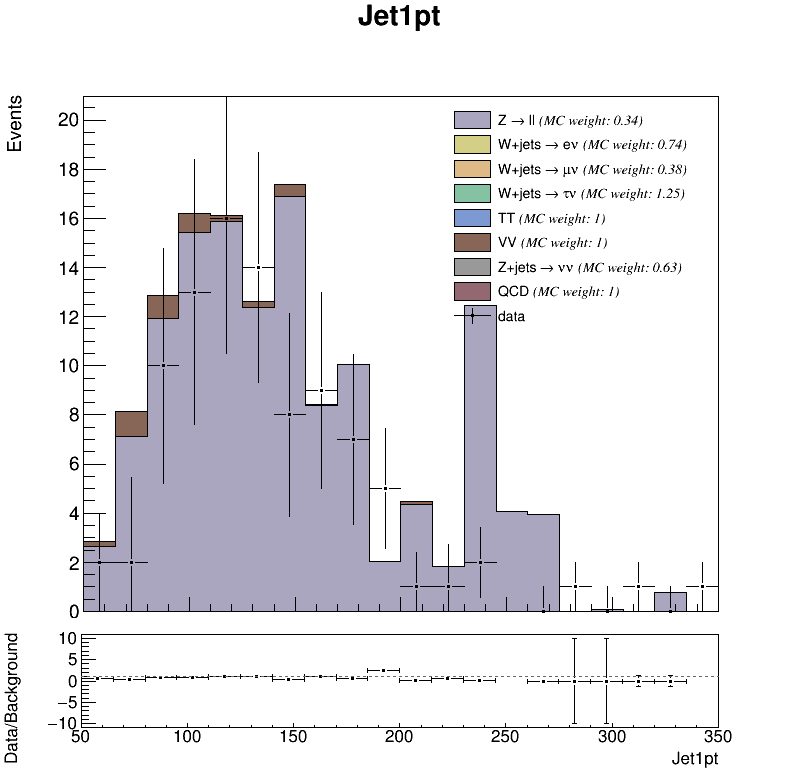
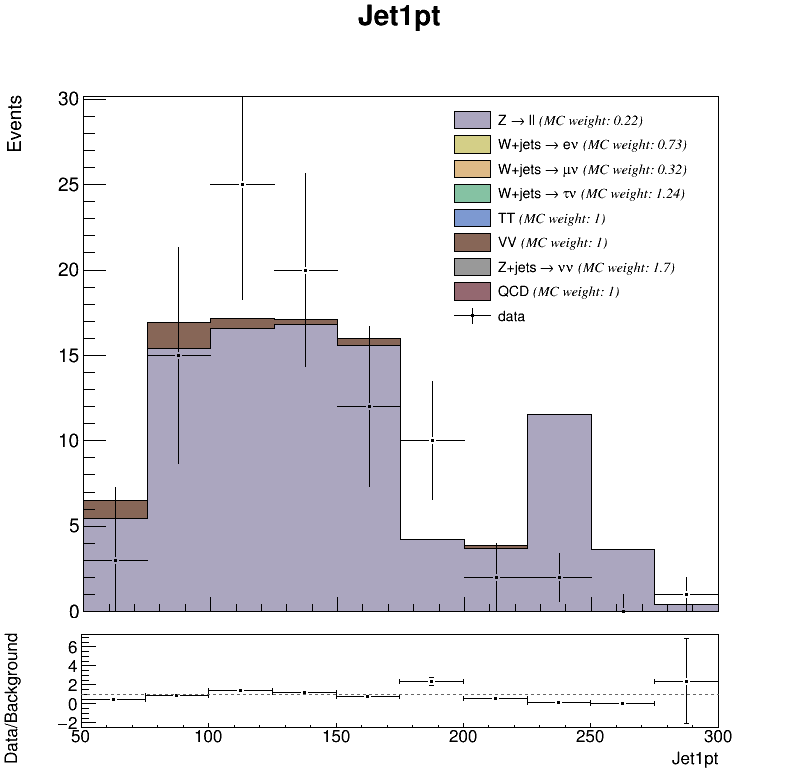
control plots

diff --git a/src/histo_plot.cpp b/src/histo_plot.cpp
@@ -712,7 +712,7 @@ void HistoPlot::style_stacked_histo(THStack* hs, const char* x_label)
 
 void HistoPlot::style_ratio_histo(TH1F* single_histo, const char* x_label)
 {
-  single_histo->GetYaxis()->SetTitle("Signal/Background"); //when not tmva was data/MC
+  single_histo->GetYaxis()->SetTitle("Data/Background"); //when not tmva was data/MC
   single_histo->GetYaxis()->SetLabelSize(0.12);
   single_histo->GetYaxis()->SetTitleOffset(0.45);
   single_histo->GetYaxis()->SetTitleSize(0.12);
@@ -930,7 +930,7 @@ std::string HistoPlot::build_signal_leg_entry(Variable* var, DataChain* signal_c
   return signal_leg_str;
 }
 //_______________________________________________________________________________________________________________________
-void HistoPlot::plot_control(Variable* mva_output, DataChain* data, std::vector<DataChain*> bg_chains,
+void HistoPlot::plot_control(bool not_tau, Variable* mva_output, DataChain* data, std::vector<DataChain*> bg_chains,
                                       std::vector<Variable*>* variables, std::string file_name, 
                                       std::string control, std::string mva_cut)
 {
@@ -957,7 +957,7 @@ void HistoPlot::plot_control(Variable* mva_output, DataChain* data, std::vector<
    //step 1.2 clone data chain
 
   string selection;
-  if(strcmp(control.c_str(), "(nselelectrons == 1)&&(nselmuons == 0)&&(nvetomuons==0)&&(ntaus == 0)"))
+  if(not_tau)
   { 
   	selection = "((jet1_pt>50.0)&&(jet2_pt>45.0)&&(metnomu_significance>3.5)&&(dijet_deta>4.2)&&(alljetsmetnomu_mindphi>2.0)&&" + control + ")*total_weight_lepveto";
   }
@@ -969,7 +969,7 @@ void HistoPlot::plot_control(Variable* mva_output, DataChain* data, std::vector<
   ////////////////////////////////////////////////////////////////////////////////////////////////////////////////////////////////////
   //step 2: create background histo
   //step 2.1: get zjets mc weight
-  double mc_weights_arr[] = { 0.34, 0.74, 0.38, 1.25, 1, 1,0.63, 1};
+  double mc_weights_arr[] = { 0.22, 0.73, 0.32, 1.24, 1, 1,1.70, 1};
   std::vector<double> mc_weights_vector (mc_weights_arr, mc_weights_arr + sizeof(mc_weights_arr) / sizeof(mc_weights_arr[0]));  
 
 
@@ -1009,7 +1009,7 @@ void HistoPlot::plot_control(Variable* mva_output, DataChain* data, std::vector<
   build_legend(legend, data_histo, mva_output, true);
 
   //step 5.2 draw subtitles
-  draw_subtitle(mva_output, variables, true, data, "", mva_cut);
+  //draw_subtitle(mva_output, variables, true, data, "", mva_cut);
   std::cout << "step 5 done" << std::endl;
 
 
@@ -1056,7 +1056,7 @@ THStack HistoPlot::draw_stacked_control(TLegend* legend, Variable* var, std::vec
   THStack stack(var->name_styled, "");
   
   //std::cout << "selection in draw stacked control histo " << selection << std::endl;
-  for(int i = 0; i < bg_chains.size(); i++) {
+  for(int i = 0; i < 8; i++) {
       //cout<<bg_chains[i]->label<<" === background, mc weight: "<<mc_weights_vector[i]<<endl;
       TH1F* single_bg_histo = draw_background_from_trees(bg_chains[i], var, colours()[i], selection, mc_weights_vector[i], mva_cut);
       stack.Add(single_bg_histo);

diff --git a/src/super_vars.cpp b/src/super_vars.cpp
@@ -4,17 +4,17 @@ SuperVars::SuperVars()
 {
   forward_tag_eta        = new Variable("forward_tag_eta","Forward Tag #eta","1.8","4.5","1.8",
                                         "","20","1", "", true);//why is there upper limit
-  dijet_deta             = new Variable("dijet_deta","Dijet #Delta#eta","4.2","","4.2","","20","1", "");//why is there upper limit
+  dijet_deta             = new Variable("dijet_deta","Dijet #Delta#eta","4.2","5.1","4.2","","10","1", "");//why is there upper limit
   metnomu_significance   = new Variable("metnomu_significance","MET Significance (No Muons)",
-                                        "3.0","","3.5","","20","1", "");
+                                        "3.5","6.5","3.5","","10","1", "");
   sqrt_ht                = new Variable("sqrt_ht","Square Root HCAL Scalar Sum of Energy","0.0","35.0","9.0",
                                         "18.0","20","1", "GeV^{0.5}");
-  alljetsmetnomu_mindphi = new Variable("alljetsmetnomu_mindphi","All Jets - MET Min. #Delta#phi (No Muons)","2.0","","2.0","","20","1", "");
+  alljetsmetnomu_mindphi = new Variable("alljetsmetnomu_mindphi","All Jets - MET Min. #Delta#phi (No Muons)","2.0","3.15","2.0","","5","1", "");
   dijet_M                = new Variable("dijet_M","Dijet Mass","0.0","2000","","","10","1", "GeV");// whyis there upper limit
   metnomuons             = new Variable("metnomuons","MET (No Muons)","0.0","2000","120.0","",//why the upper limit?
                                         "50","50", "GeV");
-  jet1_pt                 = new Variable("jet1_pt","Jet1pt","50.0","","50.0","","20","", "GeV");
-  jet2_pt                 = new Variable("jet2_pt","Jet2pt","45.0","","45.0","","20","", "GeV");
+  jet1_pt                 = new Variable("jet1_pt","Jet1pt","50.0","300","50.0","","10","", "GeV");
+  jet2_pt                 = new Variable("jet2_pt","Jet2pt","45.0","150","45.0","","10","", "GeV");
   jet1_eta = new Variable("jet1_eta","jet1_eta", "-5.0", "5.0", "-5.0", "5.0","50","1","");
   jet2_eta = new Variable("jet2_eta","jet2_eta", "-5.0", "5.0", "-5.0", "5.0","50","1","");
   jet1_phi = new Variable("jet1_phi","jet1_phi", "-4.0", "4.0", "-4.0", "4.0","50","1","");

diff --git a/src/main.cpp b/src/main.cpp
@@ -38,7 +38,7 @@ void produce_graphs(bool with_cut, const char* job_ptr) {
   int min = -80;//1769; // the minimum value you want cuts to be from
   int max =25;//1770; // max value you want cuts to be to
   double digits = 100; // number of digits + 1 of your cuts, e.g. if you put ur min as 40 then put 100 as digits to make it 0.4
-
+/*
 for(int i=0; i<vars.size();i++)
 {
 	string file_name;
@@ -47,7 +47,7 @@ for(int i=0; i<vars.size();i++)
 	file_name.append(vars[i]->name);
 	file_name.append(".png");
 	HistoPlot::draw_plot(vars[i], bg_chains,signal_chain, data_chain, with_cut,&cut_vars,  true, file_name,mva_cut);
-}
+}*/
 
 
 //double e_f = HistoPlot::get_efficiency_factor(ewk_chain,qcd_chain,cut_vars[0], &cut_vars, mva_cut);
@@ -79,11 +79,12 @@ for(int i=0; i<8;i++){
     cout<<bg_chains[i]->label<<": "<<integral<<endl;
 }*/
 
-/*
 
+bool not_tau=true;
 int var_index[] ={7,11,12,5,6,8};// forward_tag_eta, jet1_pt, jet2_pt,alljetsmetnomu_mindphi, metnomu_significance, dijet_deta
 for(int i=3;i<4;i++)
 {
+	if(i==3){not_tau=false;}
 	string file_name;
 	for(int j=0;j<6;j++)
 	{
@@ -91,10 +92,10 @@ for(int i=3;i<4;i++)
 		file_name.append("_");
 		file_name.append(bg_chains[i]->label);
 		file_name.append("_control.png");
-		HistoPlot::plot_control(vars[var_index[j]], data_chain,  bg_chains, &cut_vars, file_name, bg_chains[i]->lep_sel , "");
+		HistoPlot::plot_control(not_tau, vars[var_index[j]], data_chain,  bg_chains, &cut_vars, file_name, bg_chains[i]->lep_sel , "");
 	}
 }
-for( int i = 6;i < 7;i++)
+/*for( int i = 6;i < 7;i++)
 {
   cout<<vars[i]->name<<endl;
         string plot_name = "cuts/";
@@ -102,8 +103,8 @@ for( int i = 6;i < 7;i++)
 	plot_name.append(".png");
 	HistoPlot::draw_plot(vars[i], bg_chains,signal_chain, data_chain, true, &cut_vars , true, plot_name);
 }
-cout<<"plotted graph\n";*/
-
+cout<<"plotted graph\n";
+*/
 /*std::vector<double> mc_weights_vector = HistoPlot::mc_weights(data_chain, bg_chains, cut_vars[0], true, &cut_vars);
 cout<<"got regular mc weights\n";
 

diff --git a/include/histo_plot.h b/include/histo_plot.h
@@ -144,7 +144,7 @@ DataChain* bg_chain,
 
   static std::string build_signal_leg_entry(Variable* var, DataChain* signal_chain);
 
-  static void plot_control(Variable* mva_output, DataChain* data, std::vector<DataChain*> bg_chains,
+  static void plot_control(bool not_tau, Variable* mva_output, DataChain* data, std::vector<DataChain*> bg_chains,
                                       std::vector<Variable*>* variables, std::string file_name, 
                                       std::string control, std::string mva_cut);
 
